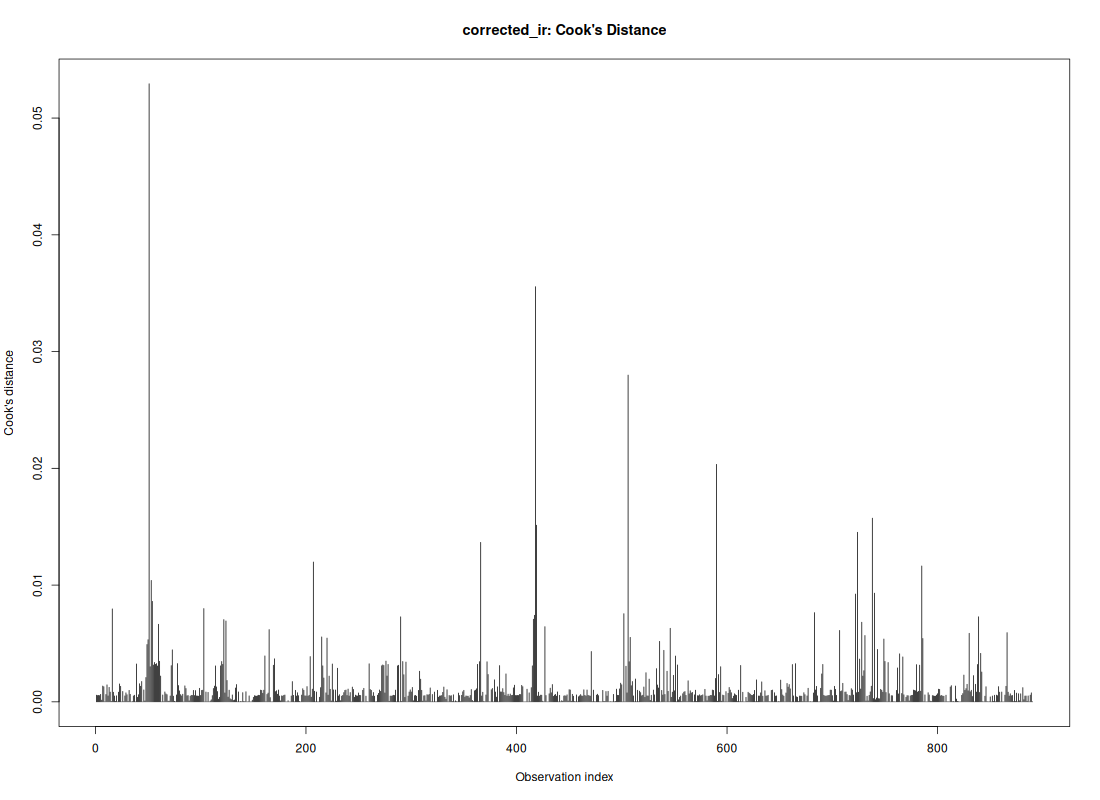
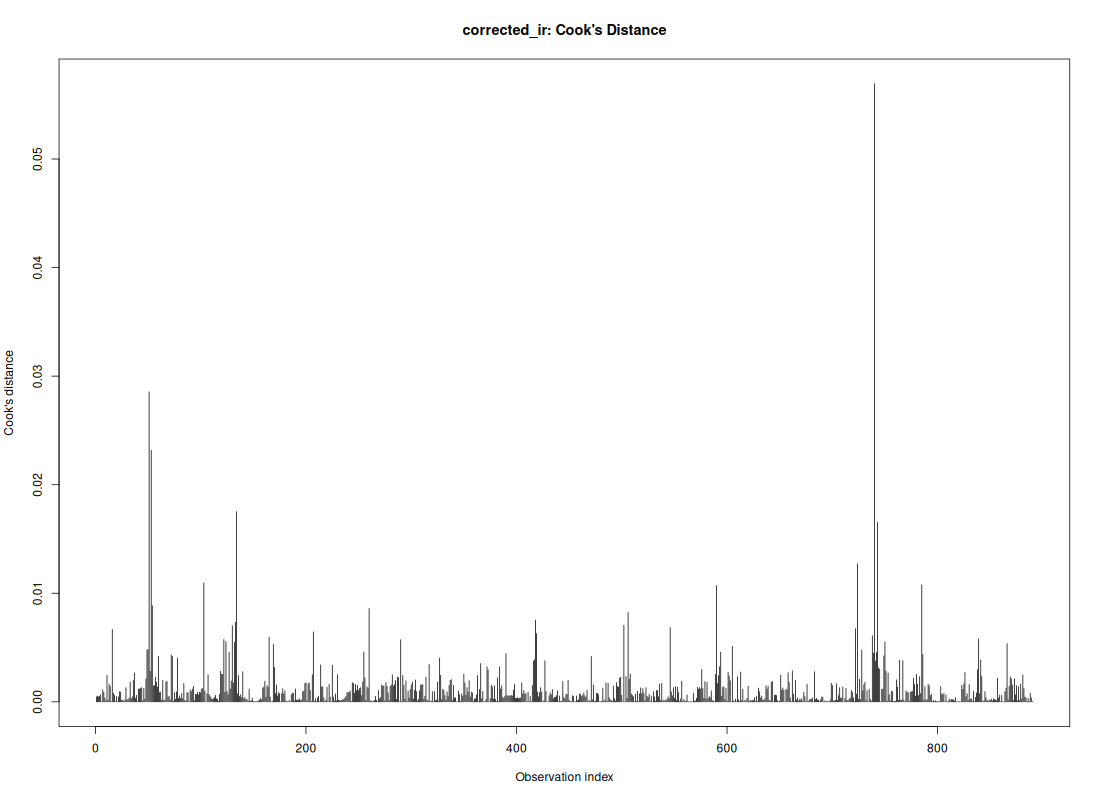
Regenerate all sub-pipeline outputs with corrected IR FA calculation
GLM, SDT, and Block Learning all rerun against updated cr_scores.csv.
All qualitative conclusions unchanged; quantitative IR CR values corrected.

diff --git a/outputs/glm/glm_report.md b/outputs/glm/glm_report.md
@@ -1,6 +1,6 @@
 # GLM Deliverables
 
-Generated: 2026-04-23 01:05:14
+Generated: 2026-04-23 01:07:00
 
 ## Data aggregation
 One row per participant x noun_condition x voice cell was used from data/processed/glm_cell_data.csv,
@@ -8,10 +8,10 @@ including mean Corrected IR, mean WR Accuracy, mean RT, and mean trial position.
 Reference levels: noun_condition = LL, voice = Active.
 
 ## H1 and H2 (Corrected IR)
-Best model selected (AIC/backward step): corrected_ir ~ noun_condition + mean_rt
+Best model selected (AIC/backward step): corrected_ir ~ noun_condition + mean_trial_position
 Sample size used: 890 rows
-Overall model fit: F(4, 885)=6.0074, p=9.02333e-05, R2=0.0264, Adj R2=0.0220
-Full model BF10 (main effects vs null): BF10 = 0.8603 [BF01 = 1.162] (negligible evidence for H0)
+Overall model fit: F(4, 885)=7.8886, p=3.00468e-06, R2=0.0344, Adj R2=0.0301
+Full model BF10 (main effects vs null): BF10 = 10.76 (positive evidence for H1)
 Robust Wald sequence (HC3) saved in outputs/glm/corrected_ir_robust_wald_sequence.csv; delta AIC in outputs/glm/corrected_ir_model_aic.csv.
 
 ## H3 (WR Accuracy null-focused)
@@ -19,19 +19,19 @@ Best model selected (AIC/backward step): wr_accuracy ~ voice + mean_trial_positi
 Sample size used: 890 rows
 Overall model fit: F(2, 887)=4.2423, p=0.0146665, R2=0.0095, Adj R2=0.0072
 Block BF comparisons (noun_condition as factor) are in outputs/glm/wr_accuracy_bayesfactor_models.csv.
-WR main-effects BF10 (vs null): BF10 = 0.001007 [BF01 = 992.7] (very strong evidence for H0)
+WR main-effects BF10 (vs null): BF10 = 0.0009741 [BF01 = 1027] (very strong evidence for H0)
 
 ## H4 (Interaction)
-Corrected IR interaction M3 vs M4 (robust Wald HC3): F(3,880)=0.1824, p=0.908345
-Corrected IR BF(interact/main): BF10 = 0.01115 [BF01 = 89.66] (strong evidence for H0)
+Corrected IR interaction M3 vs M4 (robust Wald HC3): F(3,880)=0.0981, p=0.961058
+Corrected IR BF(interact/main): BF10 = 0.01026 [BF01 = 97.45] (strong evidence for H0)
 WR Accuracy interaction M3 vs M4 (robust Wald HC3): F(3,880)=0.8799, p=0.450981
-WR Accuracy BF(interact/main): BF10 = 0.02724 [BF01 = 36.7] (strong evidence for H0)
+WR Accuracy BF(interact/main): BF10 = 0.02822 [BF01 = 35.43] (strong evidence for H0)
 
 ## Diagnostics
-Corrected IR residual Shapiro-Wilk p=3.58783e-25
-  Q-Q plot (corrected_ir_qq_residuals.png): heavy tails consistent with SW p=3.58783e-25;
+Corrected IR residual Shapiro-Wilk p=1.98271e-14
+  Q-Q plot (corrected_ir_qq_residuals.png): heavy tails consistent with SW p=1.98271e-14;
   non-normality addressed via HC3 robust SEs — OLS point estimates remain unbiased.
-Corrected IR Breusch-Pagan p=0.00470907
+Corrected IR Breusch-Pagan p=0.0401976
 Corrected IR Cook's D > 1 count: 0
 WR residual Shapiro-Wilk p=3.90287e-18
   Q-Q plot (wr_accuracy_qq_residuals.png): heavy tails consistent with SW p=3.90287e-18;
